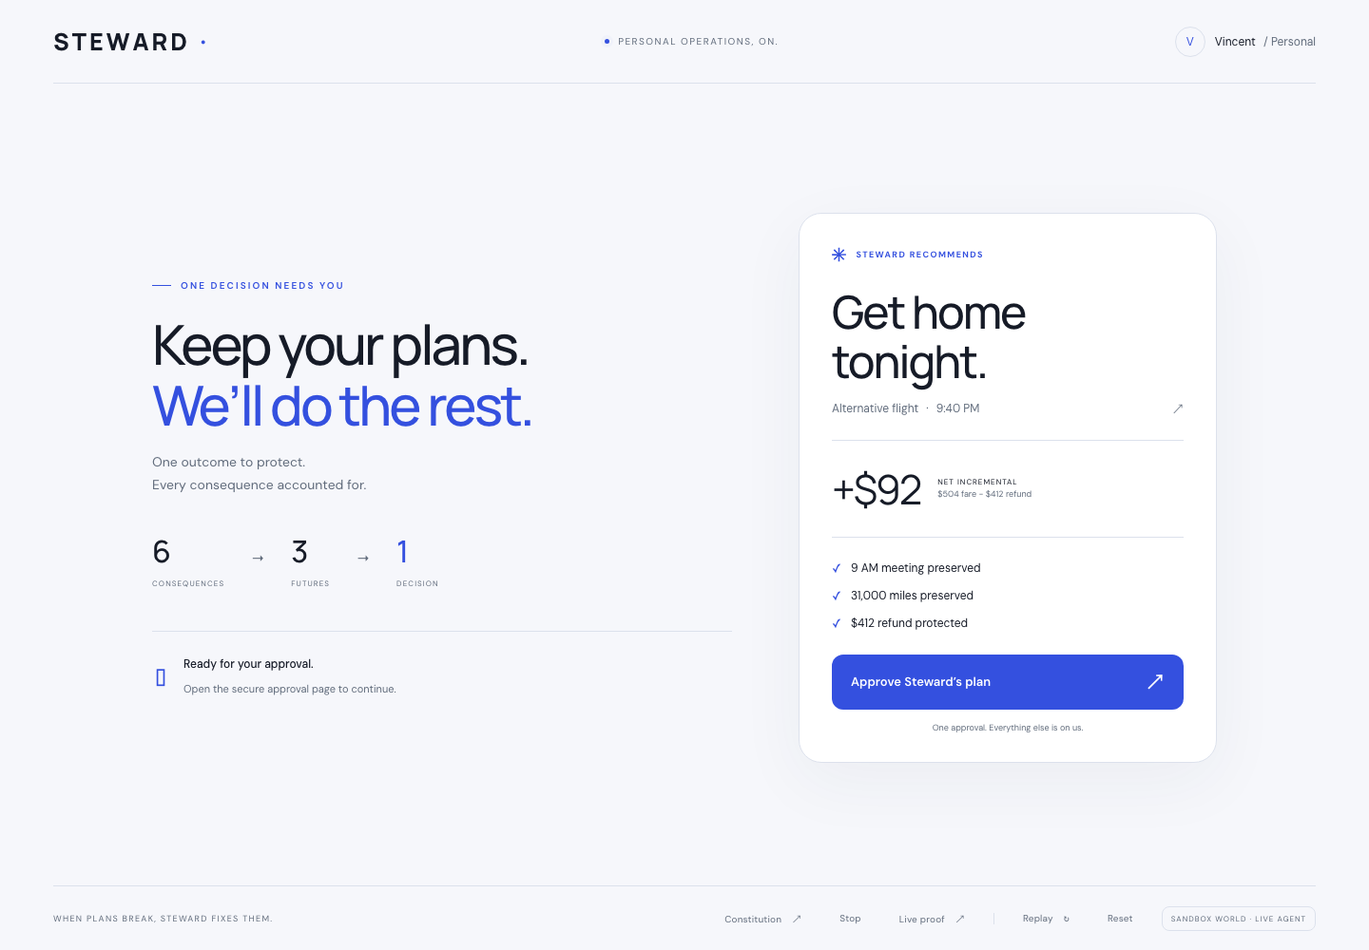
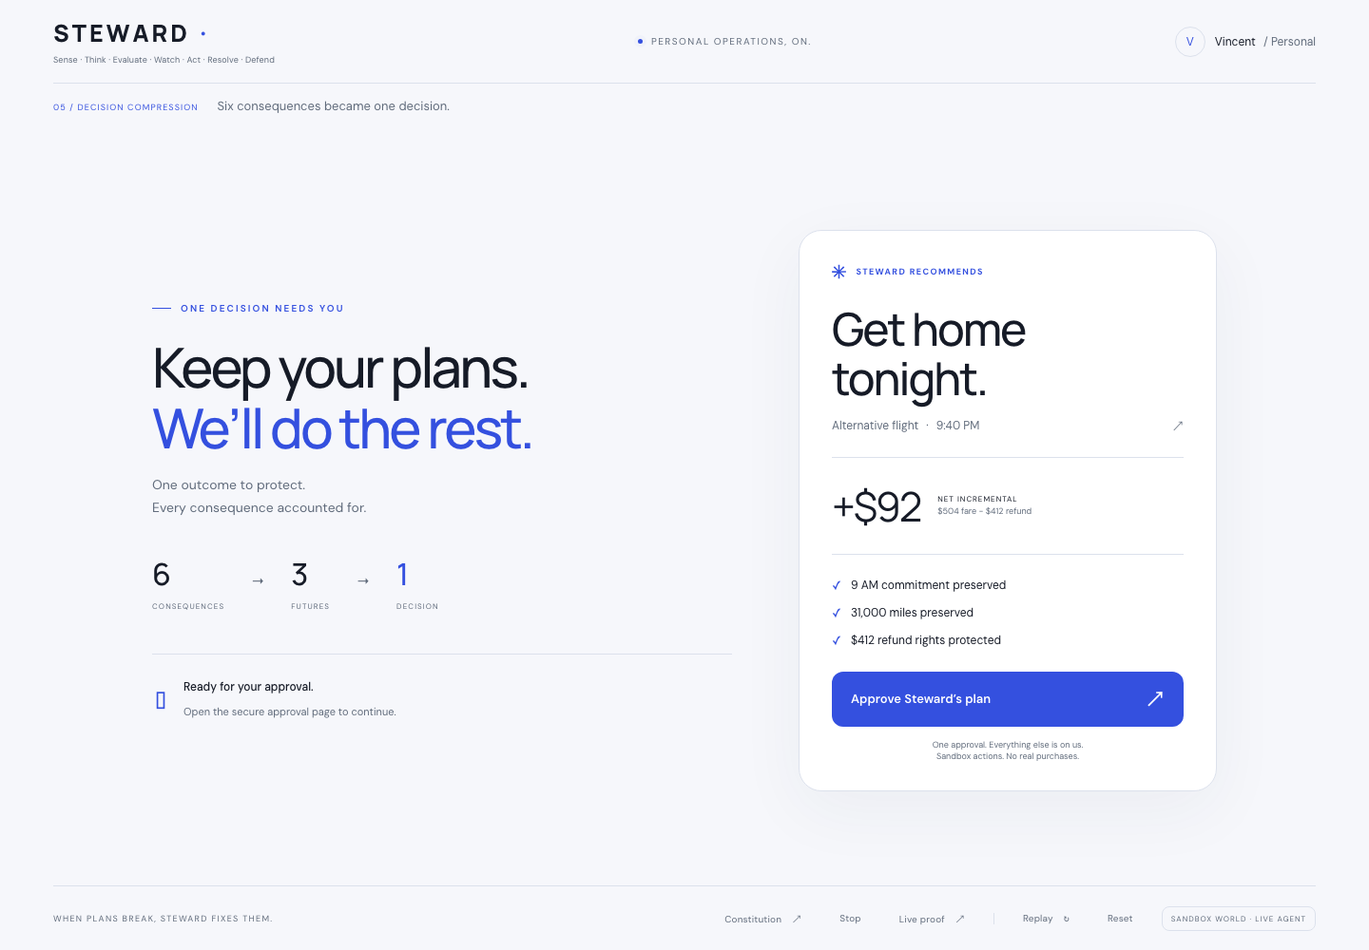
Freeze final Steward demo: world-state identity, autonomous story and honest verification

diff --git a/public/app.js b/public/app.js
@@ -61,9 +61,9 @@ const title = (label, heading, description = '') =>
   `<div class="section-heading"><div class="eyebrow"><span class="tiny-line"></span>${label}</div><h1>${heading}</h1>${description ? `<p>${description}</p>` : ''}</div>`;
 function calm() {
   return `<section class="calm scene">${title('YOUR WORLD IS STABLE', 'Your life is handled.')}<div class="calm-center"><div class="decision-count" aria-label="Zero decisions">0</div><div class="calm-status">NO DECISIONS NEED YOU.</div><p>YOUR WORLD IS STABLE</p><button class="primary" id="trigger">See Steward take over <span>↗</span></button><div class="trigger-note">${publicMode ? 'No account. No personal data. No connected accounts.' : 'One event. Six consequences. One decision.'}</div></div><div class="watching-grid">${[
-    ['01', 'TRAVEL', 'SFO → JFK', '6:40 PM tonight', '↗'],
-    ['02', 'CALENDAR', 'Sarah · 9 AM', 'Tomorrow’s priority', '◷'],
-    ['03', 'REWARDS', '31,000 miles', 'December trip protected', '✳'],
+    ['01', 'TIME', '9 AM commitment', 'Tomorrow’s priority', '◷'],
+    ['02', 'PEOPLE', 'Sarah', 'A commitment to keep', '◎'],
+    ['03', 'RESOURCES', '31,000 miles', 'December trip protected', '✳'],
     ['04', 'MONEY', '$412 fare', 'Refund rights watched', '$'],
   ]
     .map(
@@ -72,12 +72,18 @@ function calm() {
     )
     .join(
       '',
-    )}</div><div class="domain-strip"><span>YOUR WORLD</span><b>TRAVEL</b><b>MONEY</b><b>TIME</b><b>PEOPLE</b><span class="concept-domains">PURCHASES · BENEFITS · HOME <small>CONCEPT</small></span></div></section>`;
+    )}</div><div class="world-state-domains"><div class="world-state-label">ONE PERSONAL WORLD STATE</div><div class="world-domains">${['TIME', 'MONEY', 'TRAVEL', 'COMMITMENTS', 'PEOPLE', 'OPPORTUNITIES', 'PURCHASES', 'BENEFITS', 'HOME', 'ADMIN', 'WORK', 'RESOURCES'].map((d) => `<span>${d}</span>`).join('')}</div><p>Travel recovery is today’s functional capability. Other capabilities are previews.</p></div></section>`;
 }
 const nodes = [
   ['TRAVEL', 'Searching alternatives…', '7 alternatives checked', 'alternatives.found', '↗'],
-  ['CALENDAR', 'Checking tomorrow…', '9 AM conflict found', 'calendar.conflict_found', '◷'],
-  ['PEOPLE', 'Sarah is affected', 'Update prepared', 'economics.calculated', '◎'],
+  [
+    'TIME / COMMITMENT',
+    'Checking tomorrow…',
+    '9 AM conflict found',
+    'calendar.conflict_found',
+    '◷',
+  ],
+  ['PEOPLE / SARAH', 'Sarah is affected', 'Update prepared', 'economics.calculated', '◎'],
   ['MONEY', 'Checking original fare…', '$412 refundable', 'economics.calculated', '$'],
   ['REWARDS', 'Valuing your miles…', 'Preserve 31K miles', 'economics.calculated', '✳'],
   ['RIGHTS', 'Checking refund policy…', 'Cash refund protected', 'economics.calculated', '◇'],
@@ -86,7 +92,7 @@ function receiving() {
   return `<section class="scene receiving-scene">${title('EVENT TRANSPORT', 'Your agent is<br><em>on it.</em>', 'Receiving the flight cancellation from the sandbox airline.')}<div class="receiving-status"><span class="pulse-ring"></span> Waiting for the event. Your context is ready.</div></section>`;
 }
 function bloom() {
-  return `<section class="scene bloom">${title('WORLD STATE DEVIATION DETECTED', 'One change.<br><em>Six consequences.</em>', 'Steward is connecting the things this flight affects.')}<div class="graph"><svg class="graph-lines" viewBox="0 0 900 400" preserveAspectRatio="none" aria-hidden="true"><path d="M450 200L165 66 M450 200L450 45 M450 200L735 66 M450 200L735 334 M450 200L450 355 M450 200L165 334"/></svg><div class="graph-core"><span class="cancel-icon">↗</span><span class="eyebrow">AIRLINE EVENT RECEIVED</span><h2>Flight cancelled.</h2><p>SFO → JFK <span>·</span> 6:40 PM</p><div class="core-label">STEWARD TAKING OVER</div></div>${nodes.map(([name, processing, done, type, icon], i) => `<div class="consequence node-${i} ${has(type) ? 'complete' : ''}" style="--i:${i}"><div class="node-title"><span class="node-symbol">${icon}</span>${name}<span class="node-indicator">${has(type) ? '✓' : '·'}</span></div><p>${has(type) ? done : processing}</p></div>`).join('')}</div><div class="processing-footer"><span class="pulse-ring"></span> ${has('economics.calculated') ? 'Constraints checked. Economics calculated.' : 'Reading context. Finding a way forward.'}<span class="processing-count">${nodes.filter((n) => has(n[3])).length} / 6 CONNECTED</span></div></section>`;
+  return `<section class="scene bloom">${title('WORLD STATE DEVIATION DETECTED', 'One change.<br><em>Six consequences.</em>', 'One event puts arrival, tomorrow’s commitment and future resources at risk.')}<div class="graph"><svg class="graph-lines" viewBox="0 0 900 400" preserveAspectRatio="none" aria-hidden="true"><path d="M450 200L165 66 M450 200L450 45 M450 200L735 66 M450 200L735 334 M450 200L450 355 M450 200L165 334"/></svg><div class="graph-core"><span class="cancel-icon">↗</span><span class="eyebrow">AIRLINE EVENT RECEIVED</span><h2>Flight cancelled.</h2><p>SFO → JFK <span>·</span> 6:40 PM</p><div class="core-label">STEWARD TAKING OVER</div></div>${nodes.map(([name, processing, done, type, icon], i) => `<div class="consequence node-${i} ${has(type) ? 'complete' : ''}" style="--i:${i}"><div class="node-title"><span class="node-symbol">${icon}</span>${name}<span class="node-indicator">${has(type) ? '✓' : '·'}</span></div><p>${has(type) ? done : processing}</p></div>`).join('')}</div><div class="processing-footer"><span class="pulse-ring"></span> ${has('economics.calculated') ? 'Constraints checked. Economics calculated.' : 'Reading context. Finding a way forward.'}<span class="processing-count">${nodes.filter((n) => has(n[3])).length} / 6 CONNECTED</span></div></section>`;
 }
 function options() {
   return `<section class="scene options">${title('SIMULATING POSSIBLE FUTURES', 'Six consequences.<br><em>One way forward.</em>')}<div class="compression"><span>6 <small>CONSEQUENCES</small></span><b>→</b><span>3 <small>FUTURES</small></span><b>→</b><span class="accent">1 <small>DECISION</small></span></div><div class="options-grid">${run.decision.options.map((o) => `<article class="option ${o.id === 'B' ? 'recommended' : ''}"><div class="option-top"><span>FUTURE ${o.id}</span><span>${o.id === 'B' ? 'RECOMMENDED' : o.id === 'A' ? 'MEETING CONFLICT' : 'POOR VALUE'}</span></div><h3>${o.label}</h3><p>${o.departure}</p><div class="option-price">${o.id === 'C' ? '31,000' : o.id === 'A' ? '$0' : '+$92'} <small>${o.id === 'C' ? 'MILES' : 'NET'}</small></div><div class="option-reason">${o.id === 'B' ? check : '<span class="dim-cross">×</span>'}${o.reason}</div>${o.id === 'B' ? '<div class="option-math">$504 new fare − $412 refund = $92</div>' : ''}</article>`).join('')}</div><div class="options-bottom"><span class="pulse-ring"></span> Compressing the rest into one approval.</div></section>`;
@@ -94,7 +100,7 @@ function options() {
 function decision() {
   const delivery = run.delivery;
   const emailed = delivery?.channel === 'email';
-  return `<section class="scene decision-scene"><div class="decision-intro">${title('ONE DECISION NEEDS YOU', 'Keep your plans.<br><em>We’ll do the rest.</em>', 'One outcome to protect.<br>Every consequence accounted for.')}<div class="decision-summary"><div><strong>6</strong><span>CONSEQUENCES</span></div><b>→</b><div><strong>3</strong><span>FUTURES</span></div><b>→</b><div><strong class="accent">1</strong><span>DECISION</span></div></div><div class="approval-channel"><span class="phone-icon">▯</span><div><strong>${run.mode === 'replay' ? 'Replay approval arriving…' : publicMode ? 'The judgment is yours.' : emailed ? 'Sent to your phone.' : delivery?.error ? 'Email unavailable. Local approval ready.' : 'Ready for your approval.'}</strong><p>${run.mode === 'replay' ? 'Automatic simulated approval · stage safety mode' : publicMode ? 'Approve here. No email or account needed.' : emailed ? 'Check your email. One tap and we take over.' : 'Open the secure approval page to continue.'}</p></div></div></div><article class="decision-card"><div class="recommendation-label"><span>✳</span> STEWARD RECOMMENDS</div><h2>Get home<br>tonight.</h2><p class="flight-detail">Alternative flight <span>·</span> 9:40 PM <span>↗</span></p><div class="decision-price"><span>+$92</span><div>NET INCREMENTAL<br><small>$504 fare − $412 refund</small></div></div><ul class="benefits"><li>9 AM meeting preserved</li><li>31,000 miles preserved</li><li>$412 refund protected</li></ul>${run.mode === 'replay' ? '<button class="primary" disabled>Awaiting replay approval <span>◷</span></button>' : publicMode ? `<button class="primary" id="approve-public">Approve Steward’s plan <span>↗</span></button>` : `<a class="primary" href="${escape(run.approvalUrl || '#')}" target="_blank" rel="noopener">Approve Steward’s plan <span>↗</span></a>`}<div class="card-footnote">One approval. Everything else is on us.</div></article></section>`;
+  return `<section class="scene decision-scene"><div class="decision-intro">${title('ONE DECISION NEEDS YOU', 'Keep your plans.<br><em>We’ll do the rest.</em>', 'One outcome to protect.<br>Every consequence accounted for.')}<div class="decision-summary"><div><strong>6</strong><span>CONSEQUENCES</span></div><b>→</b><div><strong>3</strong><span>FUTURES</span></div><b>→</b><div><strong class="accent">1</strong><span>DECISION</span></div></div><div class="approval-channel"><span class="phone-icon">▯</span><div><strong>${run.mode === 'replay' ? 'Replay approval arriving…' : publicMode ? 'The judgment is yours.' : emailed ? 'Sent to your phone.' : delivery?.error ? 'Email unavailable. Local approval ready.' : 'Ready for your approval.'}</strong><p>${run.mode === 'replay' ? 'Automatic simulated approval · stage safety mode' : publicMode ? 'Approve here. No email or account needed.' : emailed ? 'Check your email. One tap and we take over.' : 'Open the secure approval page to continue.'}</p></div></div></div><article class="decision-card"><div class="recommendation-label"><span>✳</span> STEWARD RECOMMENDS</div><h2>Get home<br>tonight.</h2><p class="flight-detail">Alternative flight <span>·</span> 9:40 PM <span>↗</span></p><div class="decision-price"><span>+$92</span><div>NET INCREMENTAL<br><small>$504 fare − $412 refund</small></div></div><ul class="benefits"><li>9 AM commitment preserved</li><li>31,000 miles preserved</li><li>$412 refund rights protected</li></ul>${run.mode === 'replay' ? '<button class="primary" disabled>Awaiting replay approval <span>◷</span></button>' : publicMode ? `<button class="primary" id="approve-public">Approve Steward’s plan <span>↗</span></button>` : `<a class="primary" href="${escape(run.approvalUrl || '#')}" target="_blank" rel="noopener">Approve Steward’s plan <span>↗</span></a>`}<div class="card-footnote">One approval. Everything else is on us.<br>Sandbox actions. No real purchases.</div></article></section>`;
 }
 const lanes = [
   [
@@ -109,7 +115,7 @@ const lanes = [
     'refund.confirmed',
     ['Prepared', 'Sent', 'Waiting', 'Cash returned'],
   ],
-  ['CALENDAR', 'calendar.updated', 'calendar.updated', ['Updated', 'Meeting safe']],
+  ['COMMITMENT', 'calendar.updated', 'calendar.updated', ['Updated', 'Meeting safe']],
   ['PEOPLE', 'sarah.notified', 'sarah.notified', ['Sarah notified', 'Confirmed']],
   ['WATCH', 'refund.requested', 'exception.resolved', ['Monitoring', 'Cash refund protected']],
 ];
@@ -140,7 +146,7 @@ function offer(p) {
     )
     .join(
       '',
-    )}</div><div class="value-verdict ${evaluated ? 'visible' : ''}"><span>$412 CASH</span> <b>&gt;</b> <span class="credit">$450 CREDIT</span><p>Estimated credit value to you: $158 · 35% expected use</p></div></div></div><div class="rebuttal-bar ${p === 'refund' ? 'refund-success' : ''}"><span>${p === 'refund' ? '✓' : p === 'rebuttal' ? '↗' : '✳'}</span><div><strong>${p === 'refund' ? '$412 CASH REFUND APPROVED' : p === 'rebuttal' ? 'CREDIT REJECTED. CASH REQUESTED.' : evaluated ? 'CASH WINS. STEWARD IS RESPONDING.' : 'LARGER DOESN’T ALWAYS MEAN BETTER.'}</strong><p>${p === 'refund' ? 'Returned to your original payment method.' : p === 'rebuttal' ? '“Please return the $412 to the original payment method.”' : evaluated ? 'Your preferences and refund policy support cash. No second approval needed.' : 'Comparing flexibility, expiration, expected use, and refund policy.'}</p></div><span class="rebuttal-status">${p === 'refund' ? 'CONFIRMED' : p === 'rebuttal' ? 'SENT ✓' : 'AUTONOMOUS'}</span></div></section>`;
+    )}</div><div class="value-verdict ${evaluated ? 'visible' : ''}"><span>$412 CASH</span> <b>&gt;</b> <span class="credit">$450 CREDIT</span><p>Expected value to you: $158 · Seeded 35% use assumption</p></div></div></div><div class="rebuttal-bar ${p === 'refund' ? 'refund-success' : ''}"><span>${p === 'refund' ? '✓' : p === 'rebuttal' ? '↗' : '✳'}</span><div><strong>${p === 'refund' ? '$412 CASH REFUND APPROVED' : p === 'rebuttal' ? 'STEWARD REJECTED THE OFFER. CASH REQUESTED.' : evaluated ? 'CASH WINS. STEWARD IS RESPONDING.' : 'LARGER DOESN’T ALWAYS MEAN BETTER.'}</strong><p>${p === 'refund' ? 'Confirmed by the sandbox airline and payment ledger.' : p === 'rebuttal' ? '“Please return the $412 to the original payment method.”' : evaluated ? 'Your preferences and refund policy support cash. No second approval needed.' : 'Comparing flexibility, expiration, expected use, and refund policy.'}</p></div><span class="rebuttal-status">${p === 'refund' ? 'CONFIRMED' : p === 'rebuttal' ? 'SENT ✓' : 'AUTONOMOUS'}</span></div></section>`;
 }
 function resolved() {
   return `<section class="scene resolved">${title('OUTCOME RESTORED ✓', 'Your life is<br><em>handled.</em>', 'One cancellation. Six consequences. Zero loose ends.')}<div class="resolution-mark">✓</div><div class="resolution-grid">${[
@@ -155,7 +161,32 @@ function resolved() {
     )
     .join(
       '',
-    )}</div><div class="verification-summary">${run.outcome?.verified ? '6 outcome checks passed. Action receipts independently verified.' : 'Booking, calendar, notification and refund confirmed.'}</div><div class="handled-tally"><div><strong>6</strong><span>consequences</span></div><div><strong>${run.events.filter((e) => ['booking.completed', 'calendar.updated', 'sarah.notified', 'refund.requested', 'offer.evaluated', 'rebuttal.sent', 'refund.confirmed', 'outcome.verified'].includes(e.type)).length}</strong><span>verified milestones</span></div><div><strong>1</strong><span>human decision</span></div></div><div class="final-line"><span>ONE HUMAN DECISION.</span><b>Everything else, handled.</b></div><button class="text-button" id="again">Return to calm <span>↗</span></button></section>`;
+    )}</div><div class="verification-summary">${run.outcome?.verified ? '6 outcome checks passed. Action receipts independently verified.' : 'Booking, calendar, notification and refund confirmed.'}</div><div class="handled-tally"><div><strong>6</strong><span>consequences</span></div><div><strong>${run.events.filter((e) => ['booking.completed', 'calendar.updated', 'sarah.notified', 'refund.requested', 'offer.evaluated', 'rebuttal.sent', 'refund.confirmed', 'outcome.verified'].includes(e.type)).length}</strong><span>verified milestones</span></div><div><strong>1</strong><span>human decision</span></div></div><div class="final-line"><span>ONE HUMAN DECISION.</span><b>Everything else, handled.</b></div><div class="restored-calm"><span class="status-dot"></span> YOUR WORLD IS STABLE <b>0 decisions need you</b></div><button class="text-button" id="again">Return to calm <span>↗</span></button></section>`;
+}
+const story = {
+  calm: ['01 / WORLD STATE', 'One intelligence. One model of your world.'],
+  receiving: ['02 / EXTERNAL EVENT', 'The world changed. No prompt required.'],
+  bloom: ['03 / IMPACT GRAPH', 'It understood what one cancellation affected.'],
+  options: ['04 / POSSIBLE FUTURES', 'It evaluated outcomes, not just prices.'],
+  decision: ['05 / DECISION COMPRESSION', 'Six consequences became one decision.'],
+  execution: ['06 / HANDS OFF', 'I approved once. Steward is handling the rest.'],
+  offer: ['07 / COUNTERPARTY RESPONSE', 'An offer that looked better created a second problem.'],
+  evaluation: ['08 / WORTH TO YOU', '$450 on paper. $158 in expected value to you.'],
+  rebuttal: [
+    '09 / AUTONOMOUS NEGOTIATION',
+    'It defended your interests without another interruption.',
+  ],
+  refund: ['10 / CASH CONFIRMED', 'The action completed. Steward still checks the outcome.'],
+  verification: ['11 / VERIFICATION', 'It verifies the result before declaring success.'],
+  resolved: ['12 / WORLD RESTORED', 'One human decision. Everything else, handled.'],
+  stopped: ['STOP CONTROL', 'Your mandate controls what Steward may do.'],
+  error: ['SAFE RECOVERY', 'Your state is preserved. Safe recovery is available.'],
+};
+function renderStory(p) {
+  const [stage, text] = story[p] || story.calm;
+  if (document.querySelector('#story-text').textContent === text) return;
+  document.querySelector('#story-stage').textContent = stage;
+  document.querySelector('#story-text').textContent = text;
 }
 function render() {
   document.querySelector('#mode').textContent = !connected
@@ -167,6 +198,7 @@ function render() {
         : 'SANDBOX WORLD · LIVE AGENT';
   document.querySelector('#stop').hidden = !run || run.state === 'RESOLVED' || run.stopped;
   const p = phase();
+  renderStory(p);
   const revision = `${run?.id}:${run?.events.length}:${p}`;
   if (revision === lastRevision) return;
   lastRevision = revision;
@@ -395,7 +427,7 @@ await poll();
 setInterval(poll, publicMode ? 1100 : 650);
 
 function verification() {
-  return `<section class="scene verifying">${title('ACTION COMPLETED ≠ OUTCOME RESTORED', 'We check<br><em>the actual outcome.</em>', 'A successful tool call isn’t enough. Steward verifies what changed.')}<div class="verification-checks">${[
+  return `<section class="scene verifying">${title('VERIFYING OUTCOME…', 'We check<br><em>the actual outcome.</em>', 'A successful tool call isn’t enough. Steward verifies what changed.')}<div class="verification-checks">${[
     ['TRAVEL', 'Confirmed flight and one payment'],
     ['TIME', '9 AM commitment protected'],
     ['PEOPLE', 'Sarah’s sandbox inbox updated'],
@@ -405,7 +437,7 @@ function verification() {
   ]
     .map(
       ([label, text]) =>
-        `<div><span class="check">✓</span><strong>${label}</strong><p>${text}</p></div>`,
+        `<div>${run.outcome?.verified ? check : '<span class="pulse-ring"></span>'}<strong>${label}</strong><p>${text}</p></div>`,
     )
     .join(
       '',

diff --git a/scripts/production-e2e.js b/scripts/production-e2e.js
@@ -20,6 +20,10 @@ try {
       await page.goto(origin, { timeout: 120000 });
       await page.getByRole('button', { name: 'See Steward take over' }).waitFor();
       assert.equal(
+        await page.locator('.brand-definition').textContent(),
+        'Sense · Think · Evaluate · Watch · Act · Resolve · Defend',
+      );
+      assert.equal(
         await page.evaluate(() => document.documentElement.scrollWidth <= innerWidth),
         true,
       );
@@ -96,6 +100,11 @@ try {
   await Promise.all(pages.map((p) => p.reload()));
   await Promise.all(
     pages.map((p) =>
+      p.getByText('VERIFYING OUTCOME…', { exact: true }).waitFor({ timeout: 120000 }),
+    ),
+  );
+  await Promise.all(
+    pages.map((p) =>
       p.getByText('OUTCOME RESTORED ✓', { exact: true }).waitFor({ timeout: 120000 }),
     ),
   );
@@ -139,6 +148,17 @@ try {
       true,
     );
   }
+  await pages[0].getByRole('button', { name: 'Reset', exact: true }).click();
+  await pages[0].getByText('NO DECISIONS NEED YOU.', { exact: true }).waitFor();
+  await pages[0].getByRole('button', { name: 'See Steward take over' }).click();
+  await pages[0].waitForFunction(
+    (previous) =>
+      sessionStorage.getItem('steward-public-run') &&
+      sessionStorage.getItem('steward-public-run') !== previous,
+    sessions[0].id,
+  );
+  await pages[0].getByRole('button', { name: 'Stop', exact: true }).click();
+  await pages[0].getByText('AUTHORITY WITHDRAWN', { exact: true }).waitFor();
   const assets = await Promise.all(
     ['/sandbox', '/sandbox/app.js', '/style.css'].map(async (path) =>
       (await fetch(origin + path)).text(),
@@ -167,6 +187,7 @@ try {
         reload: true,
         duplicateApproval: true,
         privateRoutesDenied: true,
+        resetAndRestart: true,
         secretsAbsent: true,
         at: new Date().toISOString(),
         results,
@@ -177,7 +198,7 @@ try {
     { mode: 0o600 },
   );
   console.log(
-    'PASS: deployed HTTPS desktop + mobile, two isolated sessions, approval, negotiation, verification, reload, duplicate approval, denied private routes, malformed requests and secret scan.',
+    'PASS: deployed HTTPS desktop + mobile, two isolated sessions, approval, negotiation, verification, reload, reset/restart, duplicate approval, denied private routes, malformed requests and secret scan.',
   );
 } finally {
   await browser.close();

diff --git a/public/style.css b/public/style.css
@@ -2206,3 +2206,113 @@ footer button {
     scroll-behavior: auto !important;
   }
 }
+
+/* Final demo: explain one meaningful transition at a time. */
+.brand-lockup {
+  display: flex;
+  flex-direction: column;
+  gap: 5px;
+}
+.brand-definition {
+  font-size: 9px;
+  color: var(--muted);
+  letter-spacing: 0.15px;
+  line-height: 1.5;
+}
+.story-caption {
+  display: flex;
+  align-items: baseline;
+  gap: 20px;
+  min-height: 48px;
+  padding: 14px 0 0;
+}
+.story-caption > span {
+  color: var(--accent);
+  font-size: 9px;
+  letter-spacing: 1.1px;
+  flex-shrink: 0;
+}
+.story-caption p {
+  color: var(--muted);
+  font-size: 13px;
+  margin: 0;
+  line-height: 1.5;
+}
+.world-state-domains {
+  margin-top: 2px;
+}
+.world-state-label {
+  color: var(--text);
+  font-size: 10px;
+  letter-spacing: 1.7px;
+  margin-bottom: 12px;
+}
+.world-domains {
+  display: flex;
+  flex-wrap: wrap;
+  justify-content: center;
+  gap: 10px 18px;
+  max-width: 950px;
+  margin: auto;
+}
+.world-domains span {
+  font-size: 9px;
+  letter-spacing: 1px;
+  color: var(--muted);
+}
+.world-state-domains > p {
+  color: var(--muted);
+  font-size: 11px;
+  margin: 14px 0 0;
+}
+.restored-calm {
+  display: flex;
+  justify-content: center;
+  align-items: center;
+  flex-wrap: wrap;
+  gap: 12px;
+  color: var(--muted);
+  font-size: 10px;
+  letter-spacing: 1px;
+  margin-top: 22px;
+}
+.restored-calm b {
+  color: var(--text);
+  font-weight: 500;
+  letter-spacing: 0;
+}
+@media (max-width: 700px) {
+  header {
+    height: 96px;
+    gap: 10px;
+  }
+  .brand-lockup {
+    max-width: 230px;
+  }
+  .brand-definition {
+    font-size: 8px;
+    max-width: 225px;
+  }
+  .profile .avatar {
+    display: none;
+  }
+  .profile {
+    font-size: 10px;
+  }
+  .story-caption {
+    flex-direction: column;
+    gap: 5px;
+    min-height: 76px;
+    padding-top: 14px;
+  }
+  .story-caption p {
+    font-size: 12px;
+  }
+  .world-domains {
+    gap: 10px 14px;
+  }
+  .world-state-domains > p {
+    font-size: 10px;
+    line-height: 1.6;
+  }
+}

diff --git a/e2e/demo.spec.js b/e2e/demo.spec.js
@@ -8,9 +8,14 @@ for (let iteration = 1; iteration <= 2; iteration++)
     page.on('pageerror', (e) => errors.push(e.message));
     await page.goto('/');
     await expect(page.getByText('NO DECISIONS NEED YOU.')).toBeVisible();
+    await expect(page.locator('.brand-definition')).toHaveText(
+      'Sense · Think · Evaluate · Watch · Act · Resolve · Defend',
+    );
+    await expect(page.getByText('ONE PERSONAL WORLD STATE', { exact: true })).toBeVisible();
     if (iteration === 1) await page.screenshot({ animations: 'disabled', path: 'docs/calm.png' });
     await page.getByRole('button', { name: 'See Steward take over' }).click();
     await expect(page.getByText('Flight cancelled.', { exact: true })).toBeVisible();
+    await expect(page.locator('#story-text')).toContainText('one cancellation affected');
     if (iteration === 1) await page.screenshot({ animations: 'disabled', path: 'docs/bloom.png' });
     await expect(page.getByRole('link', { name: 'Approve Steward’s plan' })).toBeVisible({
       timeout: 25000,
@@ -55,6 +60,7 @@ for (let iteration = 1; iteration <= 2; iteration++)
       timeout: 25000,
     });
     await expect(page.getByText('$412 CASH REFUNDED', { exact: true })).toBeVisible();
+    await expect(page.getByText('0 decisions need you', { exact: true })).toBeVisible();
     await page.reload();
     await expect(page.getByText('OUTCOME RESTORED ✓', { exact: true })).toBeVisible();
     if (iteration === 1)

diff --git a/public/index.html b/public/index.html
@@ -14,14 +14,23 @@
   <body>
     <div class="app-shell">
       <header>
-        <a class="brand" href="/" aria-label="Steward home"
-          >STEW<span class="brand-a">A</span>RD<span class="brand-dot">●</span></a
-        >
+        <div class="brand-lockup">
+          <a class="brand" href="/" aria-label="Steward home"
+            >STEW<span class="brand-a">A</span>RD<span class="brand-dot">●</span></a
+          >
+          <div class="brand-definition">
+            Sense · Think · Evaluate · Watch · Act · Resolve · Defend
+          </div>
+        </div>
         <div class="header-center"><span class="status-dot"></span> PERSONAL OPERATIONS, ON.</div>
         <div class="profile">
           <span class="avatar">V</span><span>Vincent <span class="subtle">/ Personal</span></span>
         </div>
       </header>
+      <div id="story" class="story-caption" aria-live="polite">
+        <span id="story-stage"></span>
+        <p id="story-text"></p>
+      </div>
       <main id="main" aria-live="polite"></main>
       <footer>
         <span>WHEN PLANS BREAK, STEWARD FIXES THEM.</span>
